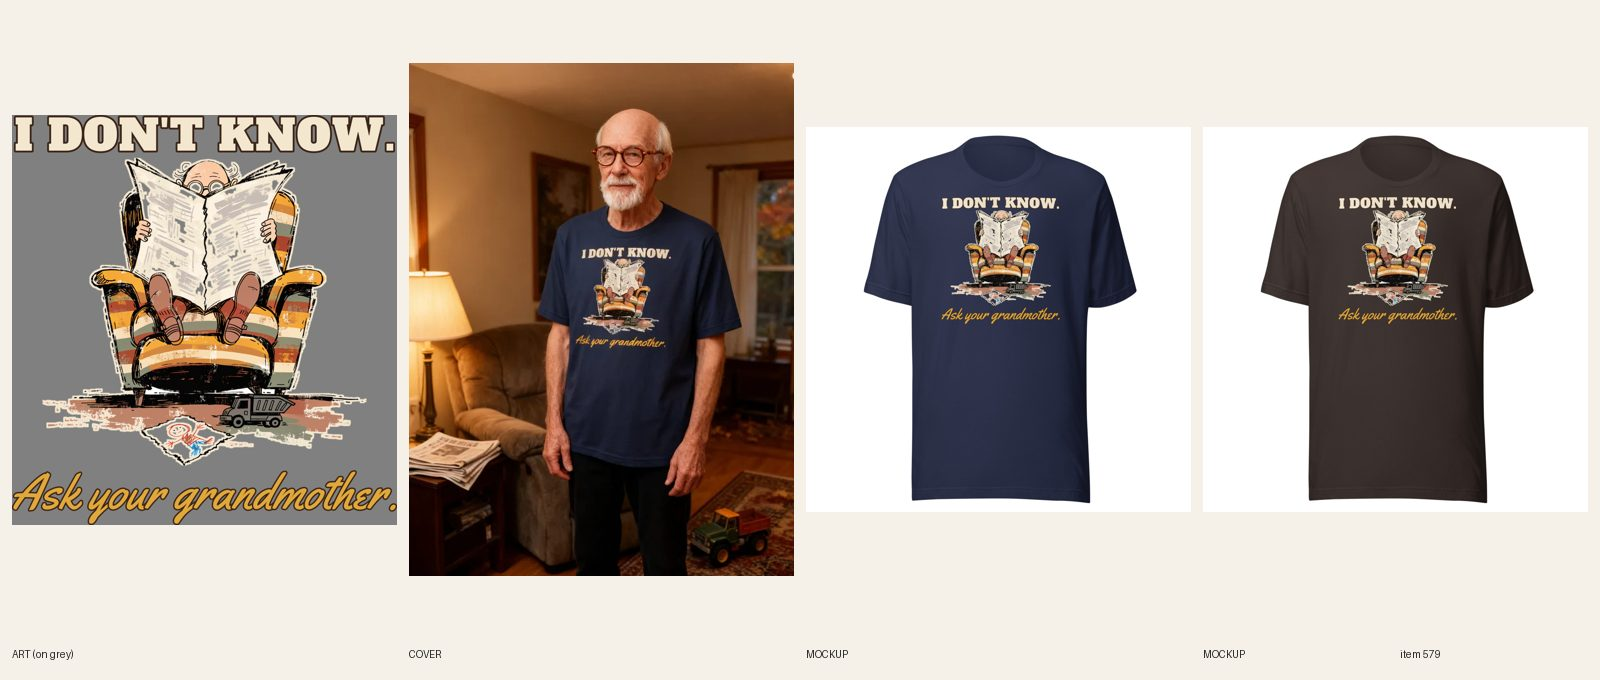
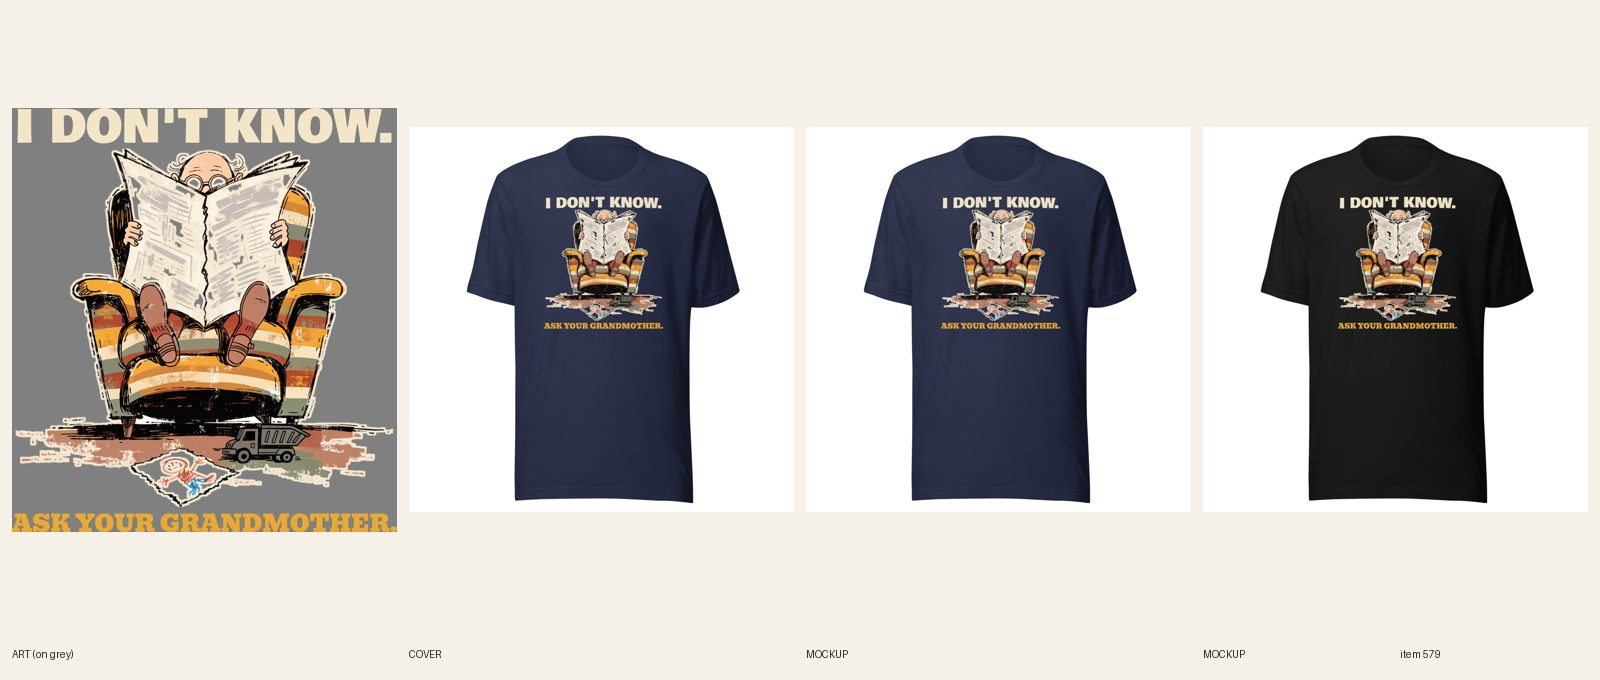
[E] review 579 Grandpa Ask Your Grandmother tee (type redo)

diff --git a/designs/e579/compose.py b/designs/e579/compose.py
@@ -1,0 +1,31 @@
+#!/usr/bin/env python3
+"""#579 type redo: Bowlby One cream I DON'T KNOW. + Bevan mustard ASK YOUR GRANDMOTHER. at full art width around the existing grandpa art (Navy and Brown, both dark)."""
+import sys
+from PIL import Image, ImageDraw, ImageFont
+F = 'designs/fonts/'
+src = Image.open('docs/print-files/579-ask-your-grandmother.png').convert('RGBA')
+art = src.crop((0, 360, src.width, 3135)); art = art.crop(art.getbbox()); art.save('designs/e579/art.png')
+W = art.width
+def line(text, font, fill, stroke, sfill, width):
+    size = 80
+    while True:
+        f = ImageFont.truetype(F + font, size)
+        bb = f.getbbox(text, stroke_width=stroke)
+        if bb[2] - bb[0] >= width or size > 2000:
+            break
+        size += 4
+    im = Image.new('RGBA', (bb[2] - bb[0] + 20, bb[3] - bb[1] + 20), (0, 0, 0, 0))
+    ImageDraw.Draw(im).text((10 - bb[0], 10 - bb[1]), text, font=f, fill=fill, stroke_width=stroke, stroke_fill=sfill)
+    return im.crop(im.getbbox())
+CREAM, MUSTARD, BROWN = '#f3e6c8', '#e8a935', '#2a1a10'
+l1 = line("I DON'T KNOW.", 'BowlbyOne-Regular.ttf', CREAM, 0, CREAM, W)
+l2 = line('ASK YOUR GRANDMOTHER.', 'Bevan-Regular.ttf', MUSTARD, 0, MUSTARD, W)
+gaps = [40, 50]
+stack = [l1, art, l2]
+H = sum(i.height for i in stack) + sum(gaps)
+out = Image.new('RGBA', (max(i.width for i in stack), H), (0, 0, 0, 0))
+y = 0
+for k, i in enumerate(stack):
+    out.alpha_composite(i, ((out.width - i.width) // 2, y)); y += i.height + (gaps[k] if k < 2 else 0)
+out.save(sys.argv[1], dpi=(300, 300))
+print(out.size, [i.size for i in stack], 'ratio', out.height / out.width, 'l2/l1 height', l2.height / l1.height)

diff --git a/docs/pipeline/579-grandpa-tee-ask-your-grandmother.md b/docs/pipeline/579-grandpa-tee-ask-your-grandmother.md
@@ -1,4 +1,4 @@
-status: BUILDING [E] 2026-10-19 21:23
+status: REVIEW
 lane: E
 type: new
 id: 579
@@ -33,3 +33,4 @@ kd: 50
 - 2026-10-18 08:55 UTC builder [E]: sync 28/28 confirmed. REVIEW.
 - 2026-10-18 09:22 UTC director: LIVE. approved from docs/review/579.jpg (newspaper grandpa, both lines read on Navy and Brown). Copy: same 'in dark colors' ink claim fixed (R8.3). ACTIVE + Online Store/Headless/Google & YouTube, audit --handle PASS (0 warn).
 - 2026-10-18 17:22 UTC director: QUALITY RESET grade B (type only), REDO. The product stays ACTIVE (same handle, URL, title keyword). Keep the line "I DON'T KNOW. / Ask your grandmother." and the art. 1. Type: Thin gold script second line on navy/brown; plain bar on top, script under art. 2. Quality reset type bar (docs/backlog/quality-reset.md, 'The new bar'): headline at least 90% of the art width, heavy, colors pulled from the art; second line at least 45% of the headline's height, never a thin script on a dark or mid garment; use the lettering as a shape (arch, stacked lockup, words breaking into the art), not a plain bar above and a script line below; no font used on more than 1 in 6 of the last 30 designs. 3. New print file means a new cover per R6.10 and a fresh review sheet (R7.7). While quality-reset.md says PAUSED, only lane A builds, and only the samples step 2 names.
+- 2026-10-19 21:30 UTC builder [E]: REDO type-only done. Same grandpa art (old text bars cropped off), new lockup designs/e579/compose.py: I DON'T KNOW. Bowlby One cream + ASK YOUR GRANDMOTHER. Bevan mustard #e8a935, both full art width (line 2 = 53% of headline height), no thin script. All four blanks dark, cream/mustard need no light file. Print 2935x3236, Printful file 1089909197, FW 1650 TOP 75, resynced 28/28 verified with back logo. 4 fronts replaced in place in Shopify, Story updated (ink FAQ already names cream/mustard/rust on dark). Cover: plain product shot (handle already in retired-covers.json). Phone-size read: both lines clear on Navy. fal $0. Sheet docs/review/579.jpg.

diff --git a/docs/intake-log.md b/docs/intake-log.md
@@ -1,5 +1,6 @@
 RUNNING lane C since 2026-10-19 21:22 UTC
 RUNNING lane E since 2026-10-19 21:14 UTC
+2026-10-19 21:30 UTC — [E] Builder run: redid #579 Men's Grandpa Ask Your Grandmother tee (type only: Bowlby One cream + Bevan mustard full art width, same art, FW 1650 TOP 75, file 1089909197, 28/28 resynced, 4 fronts replaced in place, copy updated, plain product shot). REVIEW. fal $0.
 2026-10-19 21:23 UTC — [E] Builder run: redid #558 Women's Cat Not My Turn zip hoodie (type only: Bowlby One orange + Anton pink full art width, same art, back BW 1650, file 1089900083, 12/12 resynced, 4 mockups replaced in place, copy updated, plain product shot). REVIEW. fal $0.
 RUNNING director since 2026-10-19 21:11 UTC
 
